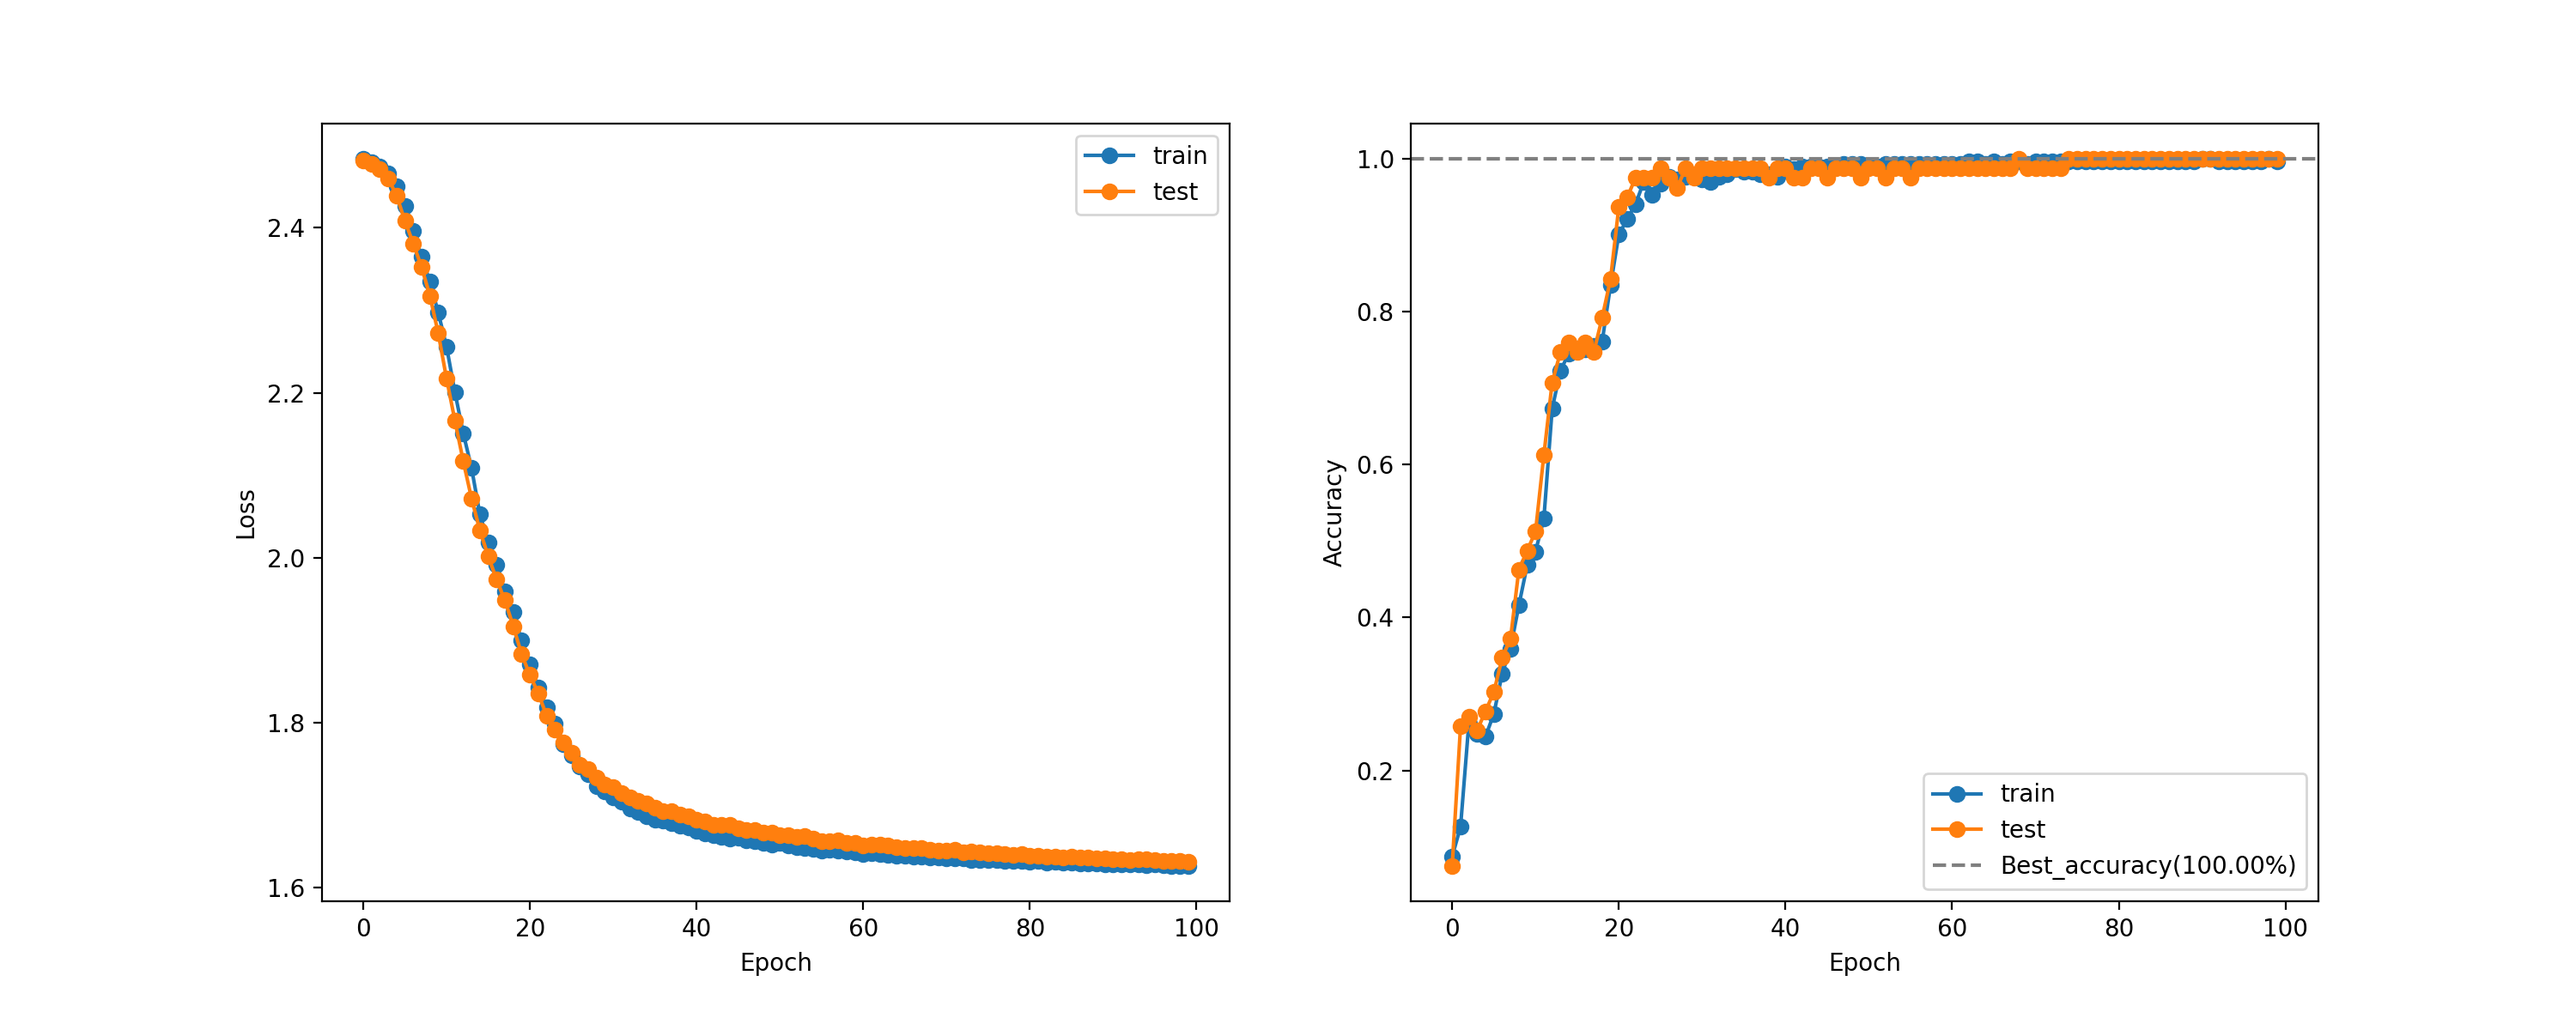
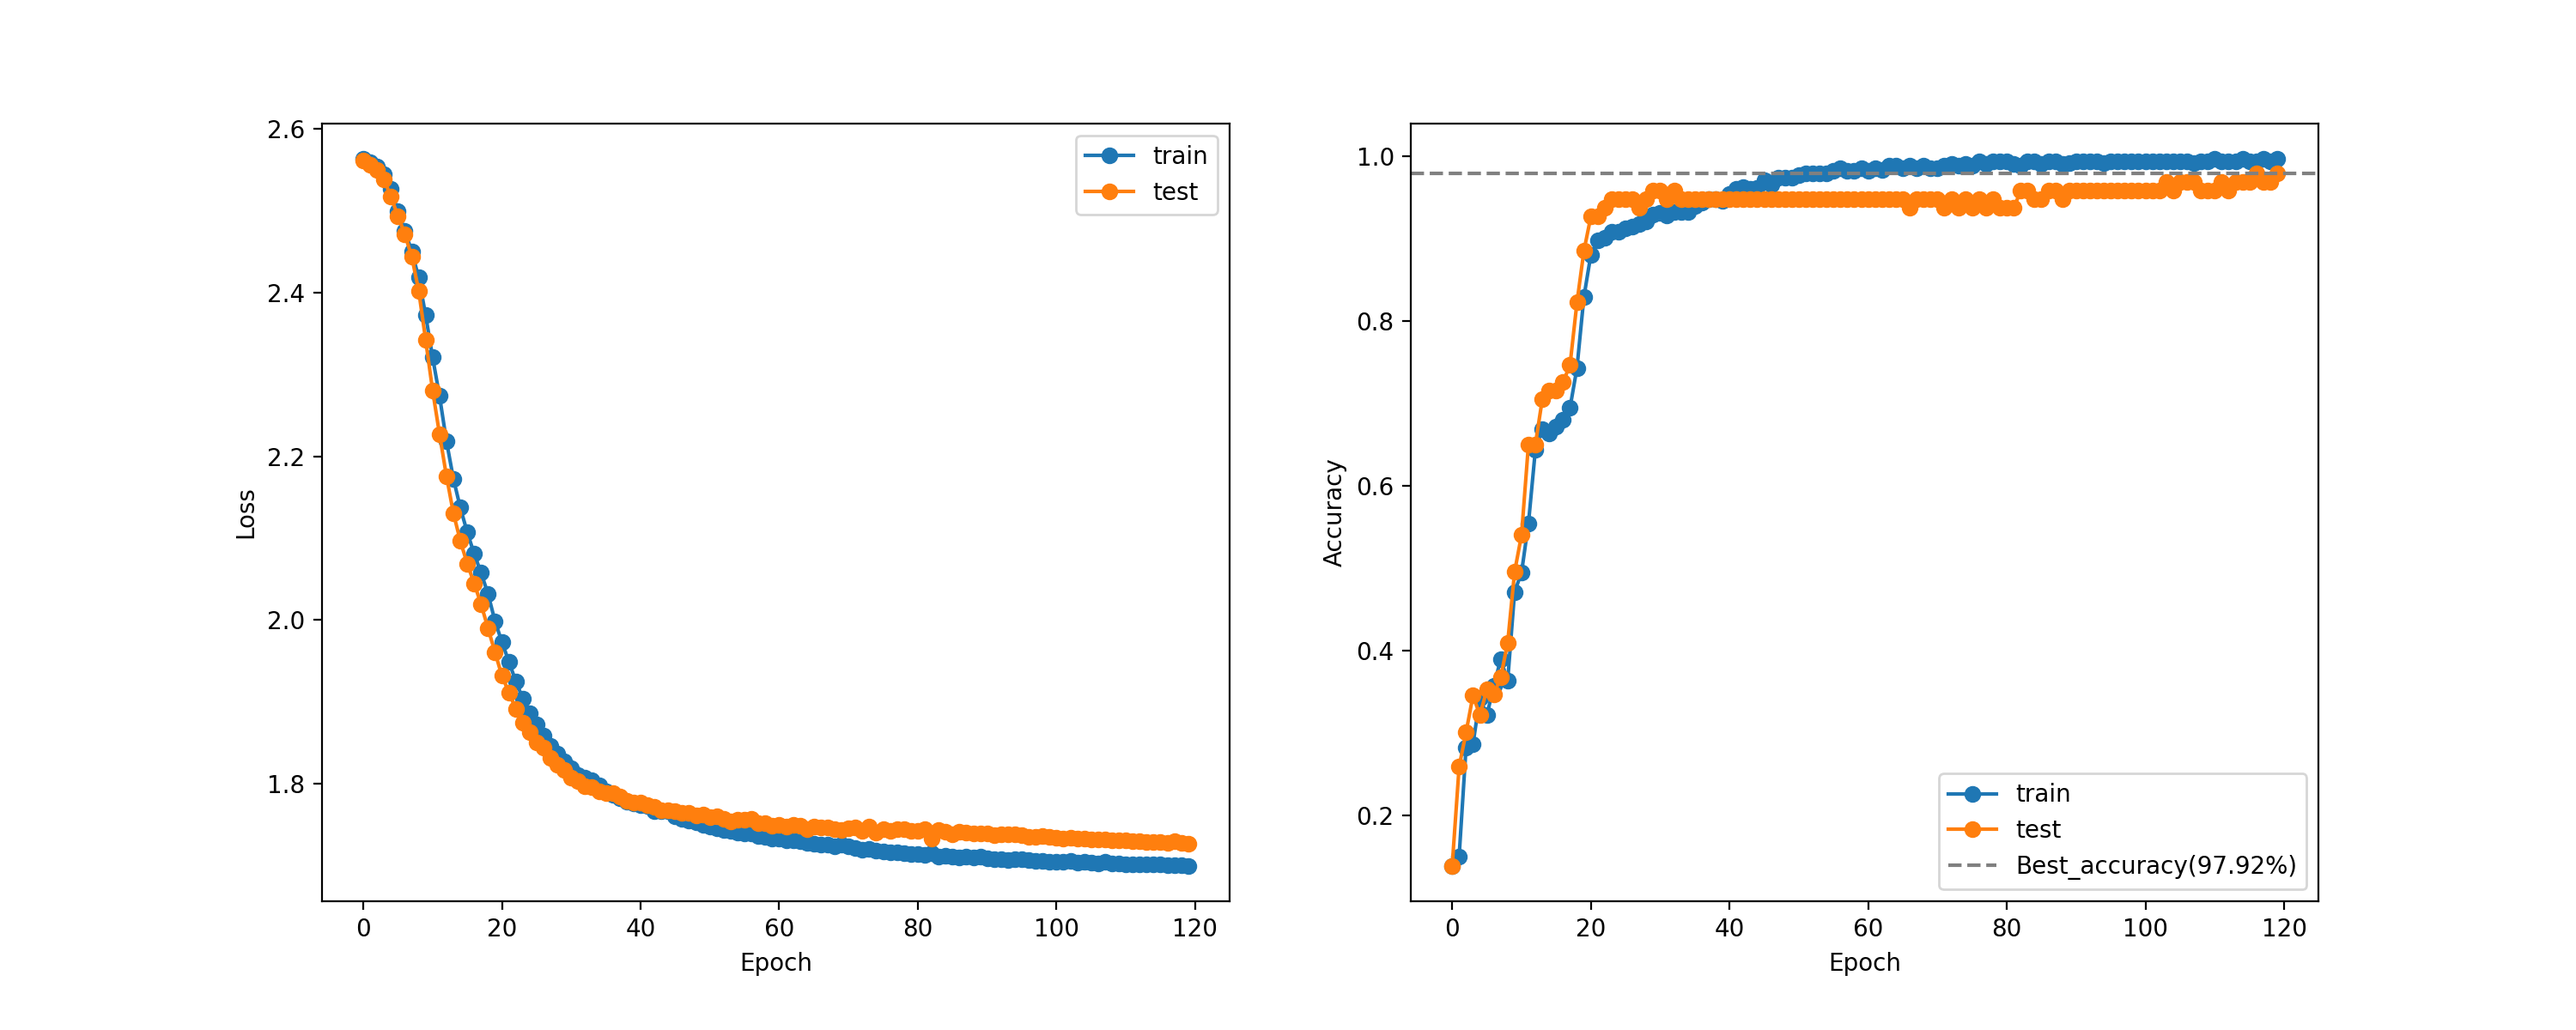
added nothing class (closed fist)
to help a smoother transition between gestures

diff --git a/main.py b/main.py
@@ -137,13 +137,10 @@ while True:
             gesture = labels[pred]
 
 
-            
-            # Check output
-            for pt in pts_for_distances:
-                cv.circle(frame, pt, 5, (0, 255, 0), -1)
-           
-            cv.putText(frame, f'{gesture} | {conf: .2f}', (int(width*0.05), int(height*0.1)),
-                        cv.FONT_HERSHEY_COMPLEX, 1, (22, 69, 22), 2, cv.LINE_AA)
+
+            if conf >= 0.9:
+                cv.putText(frame, f'{gesture} | {conf: .2f}', (int(width*0.05), int(height*0.1)),
+                    cv.FONT_HERSHEY_COMPLEX, 1, (255, 0, 255), 2, cv.LINE_AA)
 
                 
                        

diff --git a/utils.py b/utils.py
@@ -34,6 +34,8 @@ def get_class_id(key):
         class_id = 10
     if key == 66: # capital B
         class_id = 11 
+    if key == 67: # capital C
+        class_id = 12
     return class_id
 
 
@@ -41,7 +43,7 @@ def get_class_id(key):
 def logging_csv(class_id, mode, features):
     if mode == 0:
         pass
-    if mode == 1 and (0 <= class_id <= 11):
+    if mode == 1 and (0 <= class_id <= 12):
         csv_path = 'data/keypoint.csv'
         with open(csv_path, 'a', newline="") as f:
             writer = csv.writer(f)

diff --git a/models/model_architecture.py b/models/model_architecture.py
@@ -3,7 +3,7 @@ import torch.nn.functional as F
 
 n_features = 13
 hidden_size = [32, 16]
-n_classes = 12
+n_classes = 13
 
 class MLP(nn.Module):
     def __init__(self, n_features, n_classes, hidden_size):
